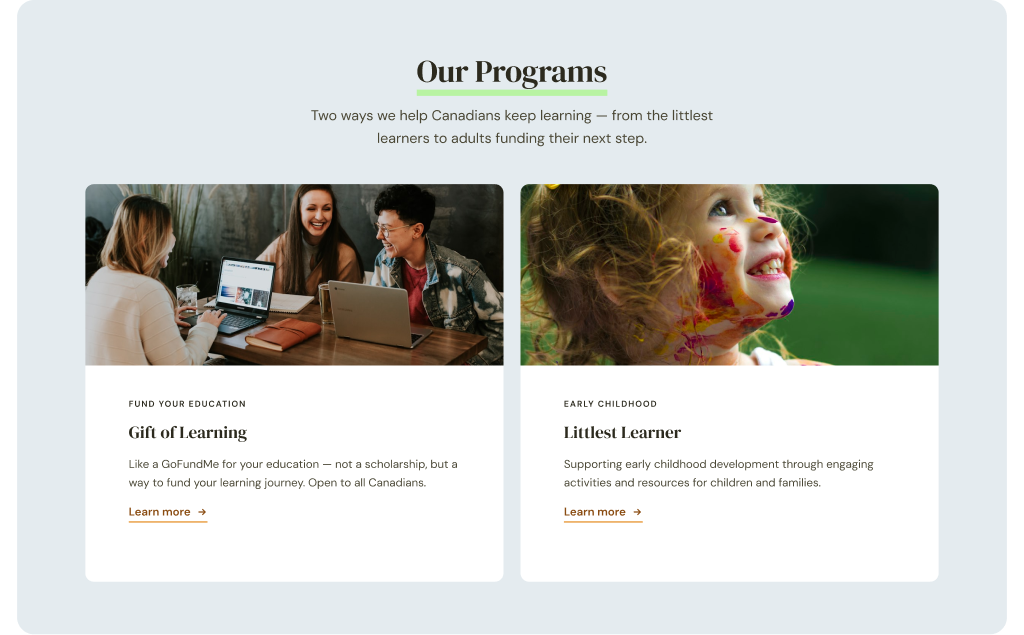
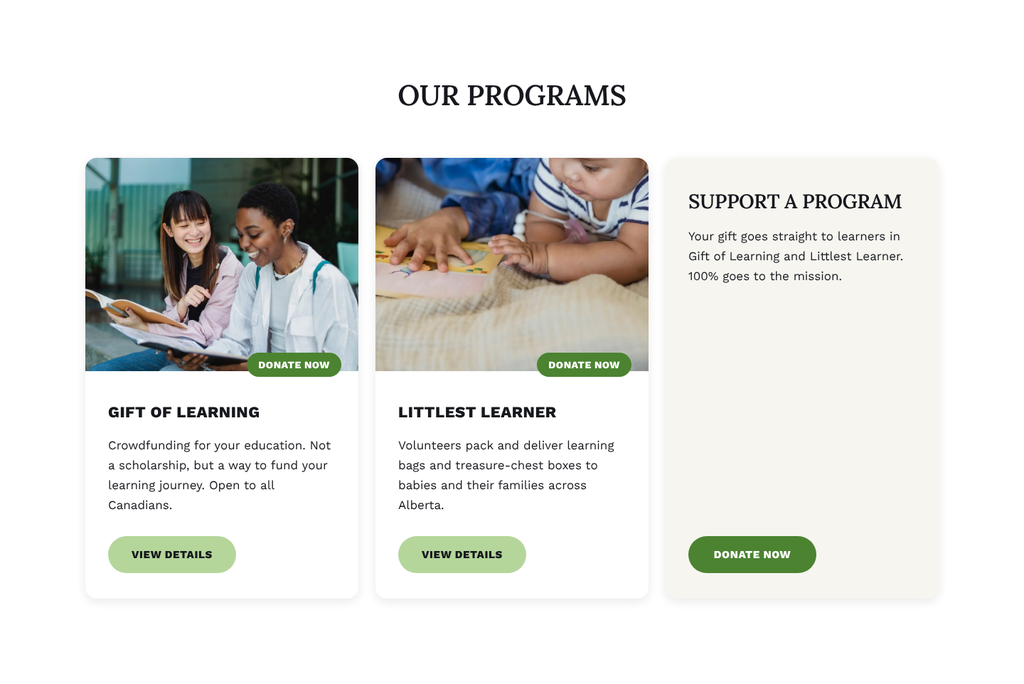
Lifelong Learning: new pages and design system (#3)
* Lifelong Learning: new Landing, About Us, Resource Hub and design system

Claude-Session: https://claude.ai/code/session_01KAYDTWEdfNKoZqiUryzZVw

* Lifelong Learning: add context, design decisions and AI process; remove before/after labels

Claude-Session: https://claude.ai/code/session_01KAYDTWEdfNKoZqiUryzZVw

---------

diff --git a/projects/lifelong-learning.html b/projects/lifelong-learning.html
@@ -257,6 +257,73 @@
       padding-top: var(--space-lg);
     }
 
+    /* ── Editorial text + cards ── */
+    .ll-text {
+      max-width: 1200px;
+      margin: 0 auto;
+      padding: var(--section-gap-lg) 80px 0;
+      display: grid;
+      grid-template-columns: 200px 1fr;
+      column-gap: 80px;
+      align-items: start;
+    }
+    .ll-text .project-section-title {
+      text-align: left;
+      margin: 0;
+      font-size: 24px;
+      letter-spacing: 0.88px;
+      line-height: 1.2;
+    }
+    .ll-text__body { display: flex; flex-direction: column; gap: 16px; }
+    .ll-text__body p { font-size: 16px; color: #444; line-height: 1.9; }
+    .ll-text__body strong { color: #111; font-weight: 600; }
+
+    .ll-cards {
+      max-width: 1600px;
+      margin: 0 auto;
+      padding: var(--space-lg) 60px 0;
+      display: grid;
+      grid-template-columns: repeat(4, 1fr);
+      gap: var(--space-xs);
+    }
+    .ll-card {
+      border: 1px solid rgba(0,0,0,0.1);
+      border-radius: 15px;
+      padding: 24px 28px;
+      display: flex;
+      flex-direction: column;
+      gap: 10px;
+    }
+    .ll-card--title .project-section-title {
+      text-align: left;
+      margin: 0;
+      font-size: 24px;
+      letter-spacing: 0.88px;
+      line-height: 1.2;
+    }
+    .ll-card__step {
+      font-size: 11px;
+      font-weight: 700;
+      letter-spacing: 0.1em;
+      color: #7b70bf;
+      text-transform: uppercase;
+    }
+    .ll-card__label { font-size: 17px; font-weight: 700; color: #000; letter-spacing: -0.01em; }
+    .ll-card__body { font-size: 14px; color: #444; line-height: 1.55; }
+
+    /* ── Design system ── */
+    .ll-system .ll-compare__img img { cursor: zoom-in; }
+    .ll-system__list {
+      list-style: none;
+      display: grid;
+      grid-template-columns: repeat(3, 1fr);
+      gap: 40px;
+      margin-top: var(--space-sm);
+    }
+    .ll-system__list li { display: flex; flex-direction: column; gap: 6px; }
+    .ll-system__list strong { font-size: 15px; font-weight: 700; color: #000; }
+    .ll-system__list span { font-size: 15px; color: #333; line-height: 1.7; }
+
     /* ── Final ── */
     .ll-final {
       max-width: 1200px;
@@ -309,6 +376,9 @@
       .ll-compare { padding-left: 24px; padding-right: 24px; }
       .ll-compare__row { flex-direction: column; align-items: center; }
       .ll-final { padding-left: 24px; padding-right: 24px; }
+      .ll-system__list { grid-template-columns: 1fr; gap: 24px; }
+      .ll-text { grid-template-columns: 1fr; gap: 24px; padding: var(--space-lg) 24px 0; }
+      .ll-cards { grid-template-columns: 1fr; padding: var(--space-md) 24px 0; }
     }
   </style>
 </head>
@@ -334,18 +404,22 @@
     <section class="ll-hero">
       <div class="ll-hero__left">
         <h1 class="ll-hero__title">Lifelong Learning Canada</h1>
-        <p class="ll-hero__desc">A homepage redesign concept for Lifelong Learning Canada, built in Figma: a cleaner structure, a real design system, and a page that tells a story.</p>
+        <p class="ll-hero__desc">A website redesign for Lifelong Learning Canada, a Canadian charity. I designed the Landing, About Us and Resource Hub pages, built a design system in Figma and prepared the file for developer handoff.</p>
       </div>
       <div class="ll-hero__right">
         <div class="ll-meta-group">
           <span class="ll-meta-label">Project Scope</span>
-          <span class="ll-meta-val">UI/UX Design · Web Design</span>
+          <span class="ll-meta-val">UI/UX Design · Web Design · Design System</span>
         </div>
         <div class="ll-meta-group">
           <span class="ll-meta-label">Skills</span>
-          <span class="ll-meta-val">Figma · Design Systems · Visual Hierarchy</span>
+          <span class="ll-meta-val">Figma · Design Systems · Developer Handoff</span>
         </div>
-        <a href="https://www.figma.com/design/TqlMsr2NwENECF7xT0gA2a/LilfeLong" target="_blank" class="ll-btn">View Figma File</a>
+        <div class="ll-meta-group">
+          <span class="ll-meta-label">Pages</span>
+          <span class="ll-meta-val">Landing · About Us · Resource Hub</span>
+        </div>
+        <a href="https://www.figma.com/design/nwnEfswx4xMTpzGlQBsQtA/Lifelong-Learning-Canada" target="_blank" class="ll-btn">View Figma File</a>
       </div>
     </section>
 
@@ -356,21 +430,51 @@
       </div>
       <div class="ll-goal-split__text">
         <span class="ll-goal-split__label">The Challenge</span>
-        <h2 class="ll-goal-split__heading">Rebuild the homepage with a clearer structure and a real design system.</h2>
-        <p class="ll-goal-split__body">Lifelong Learning Canada's homepage needed a cleaner structure, stronger visual hierarchy, and a cohesive design system behind it, so every section feels like part of the same page, and the story the organization is telling comes through clearly.</p>
+        <h2 class="ll-goal-split__heading">Rebuild the website with a clearer structure and one design system behind every page.</h2>
+        <p class="ll-goal-split__body">Lifelong Learning Canada's website needed a cleaner structure, a stronger visual hierarchy and a cohesive system, so every page feels connected and the mission comes through clearly: learning belongs to everyone, at every age. I chose a warm butter and stone palette with a green accent, paired Lora with Work Sans, and kept decoration to a minimum so the stories and programs lead.</p>
       </div>
     </div>
+
+    <!-- ─── The Context ─── -->
+    <section class="ll-text">
+      <h2 class="project-section-title">The Context</h2>
+      <div class="ll-text__body">
+        <p>Lifelong Learning Canada has been around since 1992, but like many small nonprofits it works with very little. There were almost no photos to design with, not much data to show impact, and no real visual identity. The logo is an apple, a symbol that is hard to connect to education and to people of every age on its own.</p>
+        <p>The website didn't feel like a place about learning, so a big part of my work was creating that feeling from scratch, without inventing anything the organization doesn't have.</p>
+        <p><strong>How might we make a small charity feel warm, credible and clearly about learning, with almost no photos or data to lean on?</strong></p>
+      </div>
+    </section>
+
+    <!-- ─── Design decisions ─── -->
+    <section class="ll-cards">
+      <div class="ll-card ll-card--title">
+        <h2 class="project-section-title">Design Decisions</h2>
+      </div>
+      <div class="ll-card">
+        <span class="ll-card__step">Identity</span>
+        <span class="ll-card__label">Illustration instead of photos</span>
+        <p class="ll-card__body">Illustrations of people reading and learning at different ages give the site a visual language for education that the photos and the logo couldn't carry alone.</p>
+      </div>
+      <div class="ll-card">
+        <span class="ll-card__step">Content</span>
+        <span class="ll-card__label">Real stories over numbers</span>
+        <p class="ll-card__body">With little data available, the pages lean on real learners like Cybell and Leah, and on the mission, values and beliefs the organization already has.</p>
+      </div>
+      <div class="ll-card">
+        <span class="ll-card__step">Visual system</span>
+        <span class="ll-card__label">Warm, calm and readable</span>
+        <p class="ll-card__body">A butter and stone palette with one green for actions, Lora for headings and Work Sans for body text. Black text everywhere, minimal decoration, so the content leads.</p>
+      </div>
+    </section>
 
     <!-- ─── Before / After: Hero ─── -->
     <section class="ll-compare ll-compare--piece">
       <h2 class="ll-compare__title project-section-title">The Hero</h2>
       <div class="ll-compare__row">
         <div class="ll-compare__col">
-          <span class="ll-pill ll-pill--before">Before</span>
           <div class="ll-compare__img"><img src="lifelong-hero-before.png" alt="Lifelong Learning Canada hero section, before" /></div>
         </div>
         <div class="ll-compare__col">
-          <span class="ll-pill ll-pill--after">After</span>
           <div class="ll-compare__img"><img src="lifelong-hero-after.png" alt="Lifelong Learning Canada hero section, after" /></div>
         </div>
       </div>
@@ -381,11 +485,9 @@
       <h2 class="ll-compare__title project-section-title">The Programs</h2>
       <div class="ll-compare__row">
         <div class="ll-compare__col">
-          <span class="ll-pill ll-pill--before">Before</span>
           <div class="ll-compare__img"><img src="lifelong-content-before.png" alt="Lifelong Learning Canada programs section, before" /></div>
         </div>
         <div class="ll-compare__col">
-          <span class="ll-pill ll-pill--after">After</span>
           <div class="ll-compare__img"><img src="lifelong-content-after.png" alt="Lifelong Learning Canada programs section, after" /></div>
         </div>
       </div>
@@ -396,22 +498,66 @@
       <h2 class="ll-compare__title project-section-title">The Full Homepage</h2>
       <div class="ll-compare__row">
         <div class="ll-compare__col">
-          <span class="ll-pill ll-pill--before">Before</span>
           <div class="ll-compare__img"><img src="lifelong-full-before.png" alt="Lifelong Learning Canada full homepage, before" /></div>
         </div>
         <div class="ll-compare__col">
-          <span class="ll-pill ll-pill--after">After</span>
-          <div class="ll-compare__img"><img src="lifelong-full-after.png" alt="Lifelong Learning Canada full homepage, after" /></div>
+          <div class="ll-compare__img"><img src="lifelong-full-after.jpg" alt="Lifelong Learning Canada full homepage, after" /></div>
         </div>
+      </div>
+    </section>
+
+    <!-- ─── More pages ─── -->
+    <section class="ll-compare ll-compare--full">
+      <h2 class="ll-compare__title project-section-title">About Us and Resource Hub</h2>
+      <div class="ll-compare__row">
+        <div class="ll-compare__col">
+          <div class="ll-compare__img"><img src="lifelong-about-after.jpg" alt="Lifelong Learning Canada About Us page, redesigned" /></div>
+        </div>
+        <div class="ll-compare__col">
+          <div class="ll-compare__img"><img src="lifelong-hub-after.jpg" alt="Lifelong Learning Canada Resource Hub page, redesigned" /></div>
+        </div>
+      </div>
+    </section>
+
+    <!-- ─── Design system ─── -->
+    <section class="ll-compare ll-system">
+      <h2 class="ll-compare__title project-section-title">The Design System</h2>
+      <div class="ll-compare__img"><img src="lifelong-design-system.png" alt="Lifelong Learning Canada design system: colors, typography and components" /></div>
+      <ul class="ll-system__list">
+        <li><strong>Tokens</strong><span>Color, spacing and radius variables with CSS names, plus text styles for every heading and body size.</span></li>
+        <li><strong>Components</strong><span>Header, footer, buttons, cards, filters and the resource table, all with properties and variants.</span></li>
+        <li><strong>Handoff</strong><span>Every page is built from those components on a 12 column grid, with greyscale wireframes alongside.</span></li>
+      </ul>
+    </section>
+
+    <!-- ─── How I used AI ─── -->
+    <section class="ll-cards">
+      <div class="ll-card ll-card--title">
+        <h2 class="project-section-title">How I Used AI</h2>
+      </div>
+      <div class="ll-card">
+        <span class="ll-card__step">Details</span>
+        <span class="ll-card__label">Alignment and polish</span>
+        <p class="ll-card__body">I used Claude for the smaller, repetitive work: checking alignment and spacing across sections and keeping every page consistent.</p>
+      </div>
+      <div class="ll-card">
+        <span class="ll-card__step">Exploration</span>
+        <span class="ll-card__label">Font and color options</span>
+        <p class="ll-card__body">When I was stuck on a decision, I asked for type pairings and palette options side by side, compared them and picked the direction myself.</p>
+      </div>
+      <div class="ll-card">
+        <span class="ll-card__step">Speed</span>
+        <span class="ll-card__label">Faster work in Figma</span>
+        <p class="ll-card__body">It helped me move faster when building the components, variables and text styles of the design system, so I could spend more time on the design itself.</p>
       </div>
     </section>
 
     <!-- ─── Final ─── -->
     <section class="ll-final">
       <h2 class="ll-final__title project-section-title">See the Full Design</h2>
-      <p class="ll-final__body">Explore the complete design system and prototype in Figma.</p>
+      <p class="ll-final__body">Explore the pages, the design system, the components and the wireframes in Figma.</p>
       <div class="ll-final__buttons">
-        <a href="https://www.figma.com/design/TqlMsr2NwENECF7xT0gA2a/LilfeLong" target="_blank" class="ll-final__btn">View Figma File</a>
+        <a href="https://www.figma.com/design/nwnEfswx4xMTpzGlQBsQtA/Lifelong-Learning-Canada" target="_blank" class="ll-final__btn">View Figma File</a>
       </div>
     </section>
 

diff --git a/index.html b/index.html
@@ -199,8 +199,8 @@
                 <span class="project-card__tag">UI/UX Design</span>
                 <a href="projects/lifelong-learning.html" class="project-card__title-link"><h3 class="project-card__title">Lifelong Learning Canada</h3></a>
               </div>
-              <p class="project-card__desc">A homepage redesign concept for a Canadian nonprofit, designed in Figma with a cleaner structure, a cohesive design system, and a clearer visual hierarchy.</p>
-              <a href="https://www.figma.com/design/TqlMsr2NwENECF7xT0gA2a/LilfeLong" target="_blank" class="project-card__github">
+              <p class="project-card__desc">A website redesign for a Canadian charity: Landing, About Us and Resource Hub pages, designed in Figma with a cohesive design system ready for developer handoff.</p>
+              <a href="https://www.figma.com/design/nwnEfswx4xMTpzGlQBsQtA/Lifelong-Learning-Canada" target="_blank" class="project-card__github">
                 View on Figma
               </a>
             </article>
